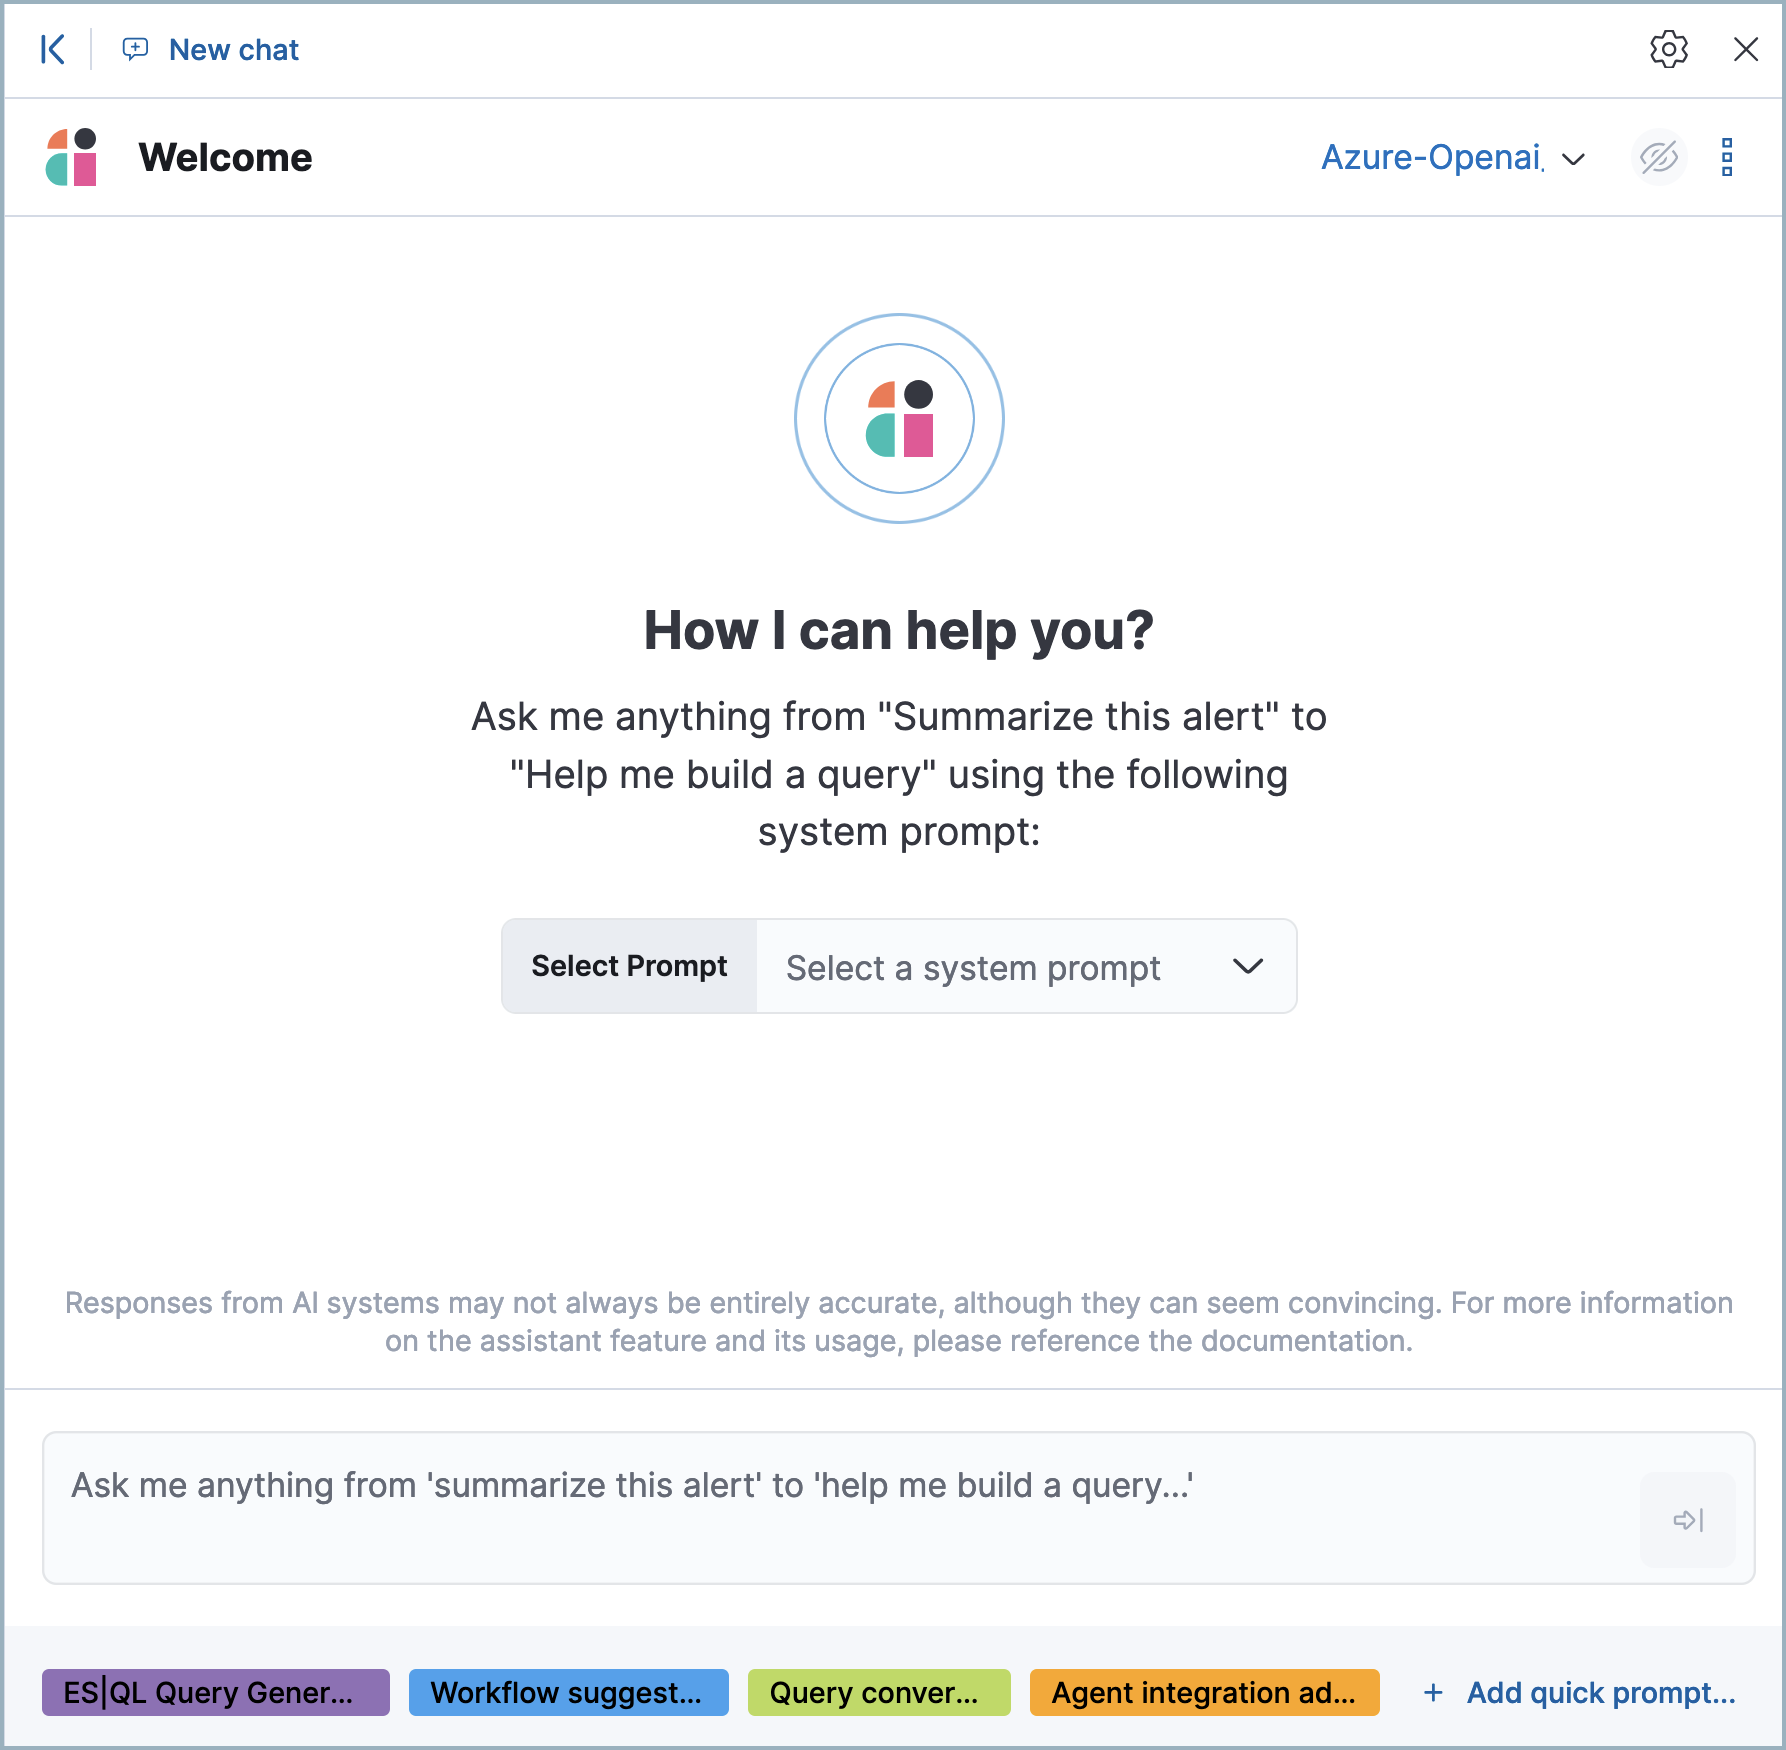
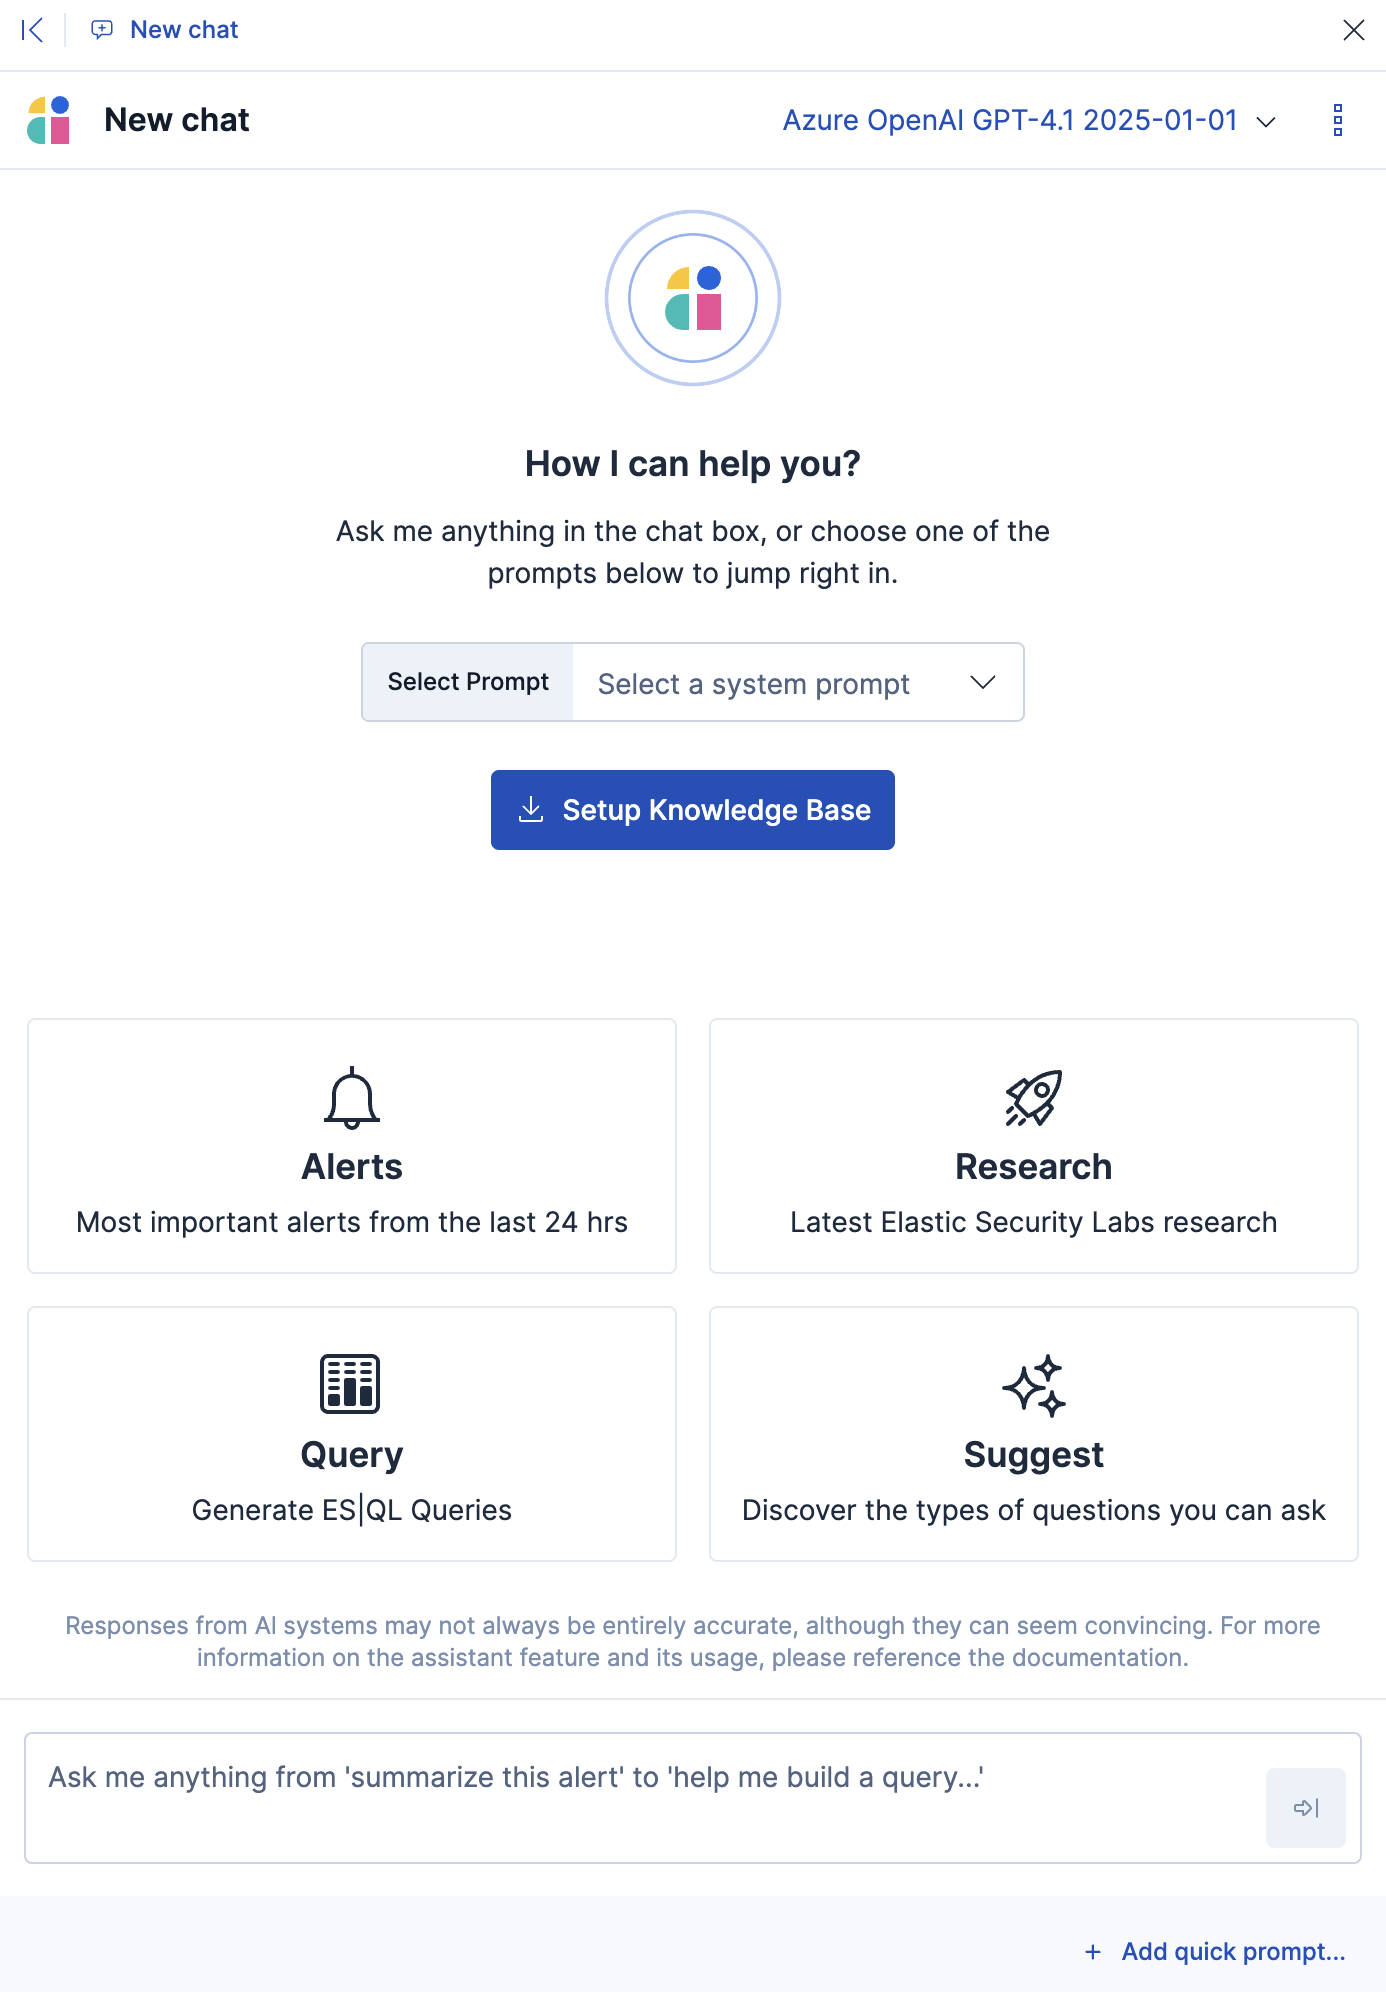
[Security] [July 22]  Replace default quick prompts with prompt tiles (#1985)
Contributes to https://github.com/elastic/docs-content/issues/1932.

Documents the new prompt tiles in the AI Assistant "new chat" UI and the
removal of the default quick prompts.

Preview: [Interact with AI
Assistant](https://docs-v3-preview.elastic.dev/elastic/docs-content/pull/1985/solutions/security/ai/ai-assistant#interact-with-assistant)

diff --git a/solutions/security/ai/ai-assistant.md b/solutions/security/ai/ai-assistant.md
@@ -17,6 +17,7 @@ The Elastic AI Assistant utilizes generative AI to bolster your cybersecurity op
 
 :::{image} /solutions/images/security-assistant-basic-view.png
 :alt: Image of AI Assistant chat window
+:width: 75%
 :screenshot:
 :::
 
@@ -81,23 +82,24 @@ Each user’s chat history (up to the 99 most recent conversations) and custom Q
 
 ## Interact with AI Assistant [interact-with-assistant]
 
-Use these features to adjust and act on your conversations with AI Assistant:
+Use these optional features to adjust and act on your conversations with AI Assistant:
 
-* (Optional) Select a *System Prompt* at the beginning of a conversation by using the **Select Prompt** menu. System Prompts provide context to the model, informing its response. To create a System Prompt, open the System Prompts dropdown menu and click **+ Add new System Prompt…**.
-* (Optional) Select a *Quick Prompt* at the bottom of the chat window to get help writing a prompt for a specific purpose, such as summarizing an alert or converting a query from a legacy SIEM to {{elastic-sec}}.
+* Select a *System Prompt* at the beginning of a conversation by using the **Select Prompt** menu. System Prompts provide context to the model, informing its response. To create a System Prompt, open the System Prompts dropdown menu and click **+ Add new System Prompt…**.
+* {applies_to}`stack: ga 9.1` Select a *prompt tile* to start your conversation with a predefined goal or topic. Prompt tiles help you begin structured tasks or investigations into common {{elastic-sec}} workflows. The available prompt tiles include:
 
-   :::{image} /solutions/images/security-quick-prompts.png
-   :alt: Quick Prompts highlighted below a conversation
-   :screenshot:
-   :::
+   * **Alerts**: Quickly identify and prioritize the most important alerts from the last 24 hours.
+   * **Research**: Get a summary of the latest {{elastic-sec}} Labs research articles.
+   * **Query**: Generate {{esql}} queries based on a specific goal or requirement.
+   * **Suggest**: Explore the types of questions you can ask AI Assistant about {{elastic-sec}}.
 
-* System Prompts and Quick Prompts can also be configured from the corresponding tabs on the **Security AI settings** page.
+* {applies_to}`stack: removed 9.1` Select a default *Quick Prompt* at the bottom of the chat window to get help writing a prompt for a specific purpose, such as summarizing an alert or converting a query from a legacy SIEM to {{elastic-sec}}. The default Quick Prompts' availability varies based on context—for example, the **Alert summarization** Quick Prompt appears when you open AI Assistant while viewing an alert.
 
-   :::{image} /solutions/images/security-assistant-settings-system-prompts.png
-   :alt: The Security AI settings menu's System Prompts tab
-   :::
+* Create new custom Quick Prompts by clicking **Add quick prompt**.
 
-* Quick Prompt availability varies based on context—for example, the **Alert summarization** Quick Prompt appears when you open AI Assistant while viewing an alert. To customize existing Quick Prompts and create new ones, click **Add Quick Prompt**.
+:::{tip}
+System Prompts and Quick Prompts can also be [configured](#configure-ai-assistant) from the corresponding tabs on the **Security AI settings** page. 
+:::
+
 * In an active conversation, you can use the inline actions that appear on messages to incorporate AI Assistant’s responses into your workflows:
 
     * **Add note to timeline** (![Add note icon](/solutions/images/security-icon-add-note.png "title =20x20")): Add the selected text to your currently active Timeline as a note.
